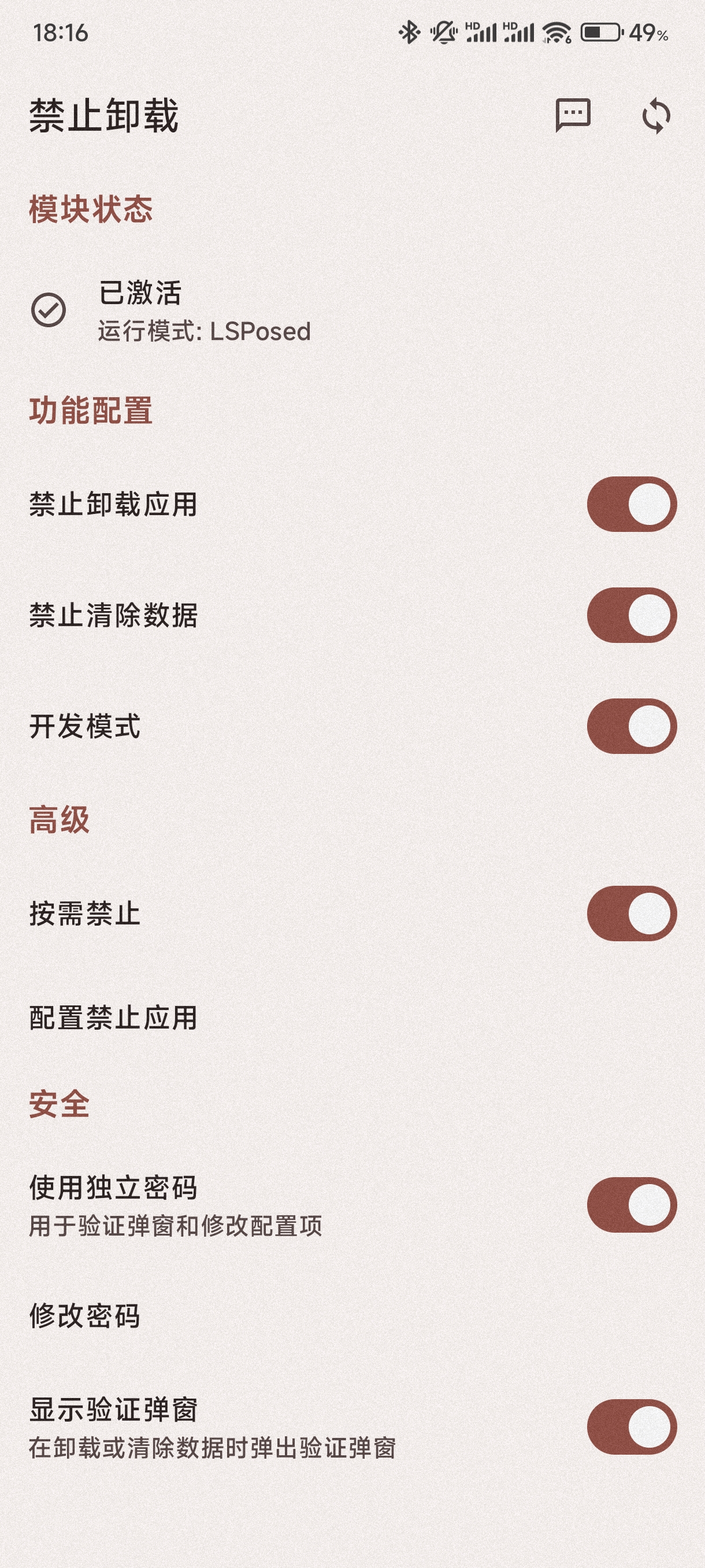
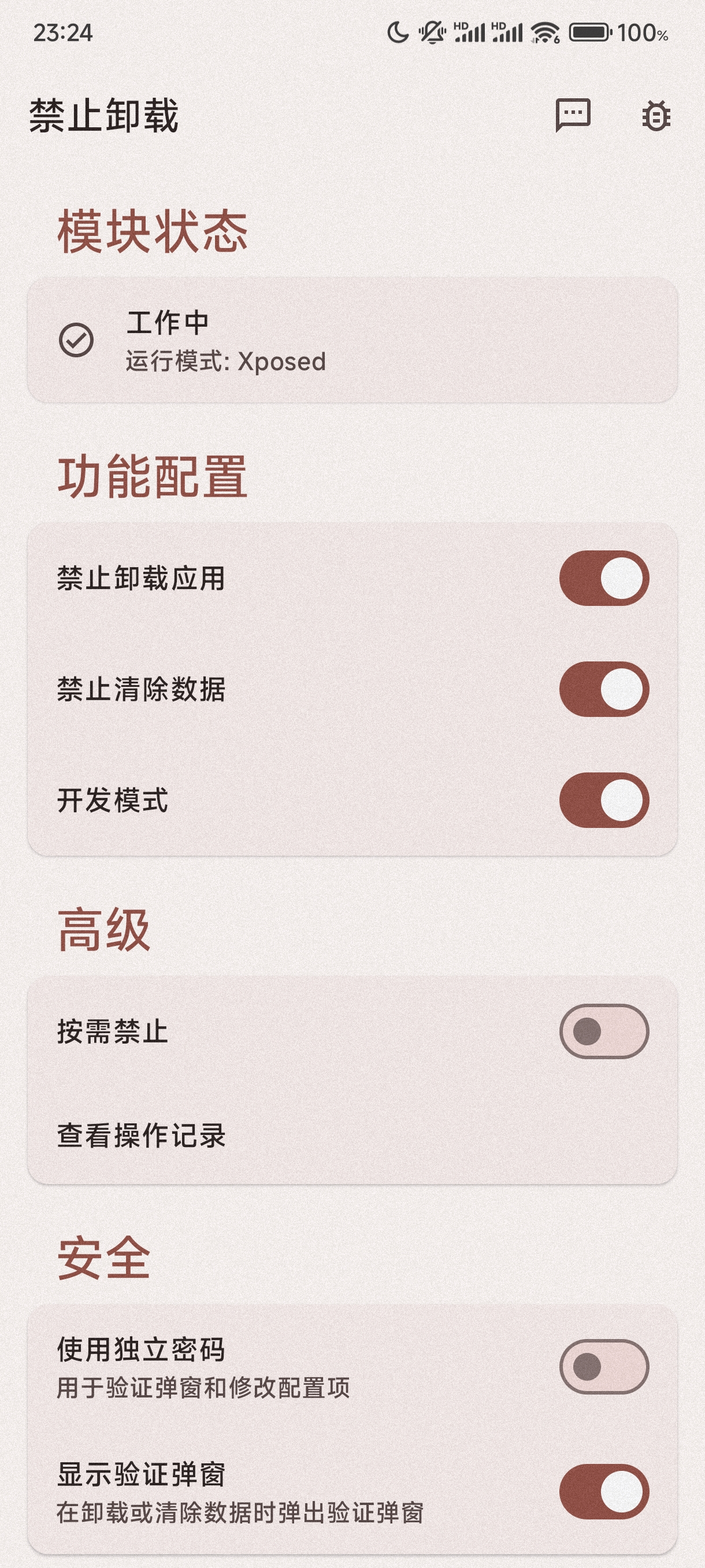
Bump to v1.4.0 (#21)
* a small fix

* update screenshots

* update README.md

* Bump to v1.4.0

diff --git a/app/src/main/java/cn/tinyhai/ban_uninstall/ui/screen/OpRecordScreen.kt b/app/src/main/java/cn/tinyhai/ban_uninstall/ui/screen/OpRecordScreen.kt
@@ -183,7 +183,7 @@ private fun OpRecordList(
     val refreshState = rememberPullRefreshState(refreshing = isRefreshing, onRefresh = onRefreshing)
     val groupedRecords = records.groupBy {
         val date = it.opDate
-        Date(date.year, date.month, date.day)
+        Date(date.year, date.month, date.date)
     }
     Box(modifier = modifier.pullRefresh(refreshState)) {
         LazyColumn(modifier = Modifier.fillMaxSize(), contentPadding = PaddingValues(16.dp, 8.dp)) {

diff --git a/README.md b/README.md
@@ -9,18 +9,22 @@ To translate BanUninstall to your language, please use [Crowdin](https://crowdin
 
 
 ### Screenshots
-|                    1                     |                    2                     |                    3                     |
-|:----------------------------------------:|:----------------------------------------:|:----------------------------------------:|
-| <img src="screenshots/screenshot1.jpg"/> | <img src="screenshots/screenshot2.jpg"/> | <img src="screenshots/screenshot3.jpg"/> |
+|                     1                      |                    2                     |                    3                     |                    4                     |
+|:------------------------------------------:|:----------------------------------------:|:----------------------------------------:|:----------------------------------------:|
+|  <img src="screenshots/screenshot1.jpg"/>  | <img src="screenshots/screenshot2.jpg"/> | <img src="screenshots/screenshot3.jpg"/> | <img src="screenshots/screenshot4.jpg"/> |
+
 
 ### Compatibility
 Xposed:
 
 Android 5.0 - Android 14
 
+> Please don't activate with root when any Xposed Framework is running
+
 Root:
 
 Android 8.1 - Android 14
+
 
 I have tested with my phone on Android 14, and it works well. I can't ensure it works on your phone.
 

diff --git a/CHANGELOG.md b/CHANGELOG.md
@@ -1,1 +1,3 @@
-- Support Brazilian Portuguese by @baianohak
+- 添加操作记录功能
+- 一些UI调整
+- 更新版本号
